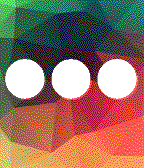
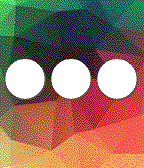
151215

diff --git a/src/themes.c b/src/themes.c
@@ -38,7 +38,6 @@ enum key {
   HOURLYVIBE_KEY = 0x2,
   TEMP_KEY = 0x3,
   CONDITION_KEY = 0x4,
-//  PRESSURE_KEY = 0x5,
   BACKGROUND_KEY = 0x5
 };
 
@@ -60,8 +59,8 @@ static BitmapLayer *battery_layer;
 Window *window;
 static Layer *window_layer;
 
-static GBitmap *background_image;
-static BitmapLayer *background_layer = NULL;
+GBitmap *background_image = NULL;
+static BitmapLayer *background_layer;
 
 BitmapLayer *icon_layer;
 GBitmap *icon_bitmap = NULL;
@@ -82,7 +81,7 @@ int cur_day = -1;
 
 int charge_percent = 0;
 
-static int s_random = 20;
+static int s_random = 6;
 static int temp_random;
 
 
@@ -127,7 +126,7 @@ void theme_choice() {
 		bitmap_layer_set_bitmap(background_layer, background_image);
 		layer_set_hidden(bitmap_layer_get_layer(background_layer), false);
 		layer_mark_dirty(bitmap_layer_get_layer(background_layer));
-    }
+	   }
 }
 
 	    break;
@@ -215,14 +214,14 @@ void theme_choice() {
 	    break;
 		
 		case 3:  // shapes
-		if(s_random == 5){
+		if(s_random == 6){
 			s_random = 0;
 		} else {
 
-			temp_random = rand() % 5;
+			temp_random = rand() % 6;
 
 			while(temp_random == s_random){
-			    temp_random = rand() % 5;
+			    temp_random = rand() % 6;
 		    }
 
 		    s_random = temp_random;
@@ -242,6 +241,8 @@ void theme_choice() {
  				background_image = gbitmap_create_with_resource(RESOURCE_ID_IMAGE_BG23);
          } else if(s_random == 4){
  				background_image = gbitmap_create_with_resource(RESOURCE_ID_IMAGE_BG32);
+         }else if(s_random == 5){
+ 				background_image = gbitmap_create_with_resource(RESOURCE_ID_IMAGE_BG33);
          }
 			
 	   if (background_image != NULL) {
@@ -256,7 +257,11 @@ void theme_choice() {
 	
 void change_battery_icon(bool charging) {
 
-  if(charging) {
+if (battery_image) {
+    gbitmap_destroy(battery_image);
+    battery_image = NULL;
+  }
+	if(charging) {
     battery_image = gbitmap_create_with_resource(RESOURCE_ID_IMAGE_BATTERY_CHARGE);
   }  else {
     battery_image = gbitmap_create_with_resource(RESOURCE_ID_IMAGE_BATT);
@@ -266,15 +271,15 @@ void change_battery_icon(bool charging) {
 }
 
 static void sync_tuple_changed_callback(const uint32_t key, const Tuple* new_tuple, const Tuple* old_tuple, void* context) {
-  switch (key) {
+	if(new_tuple==NULL || new_tuple->value==NULL) {
+		return;
+	}
+	
+	switch (key) {
 	  
 	case CONDITION_KEY:
       text_layer_set_text(condition_layer, new_tuple->value->cstring);
     break;
-
-	//case PRESSURE_KEY:
-    //  text_layer_set_text(layer_sunset_text, new_tuple->value->cstring);
-    //break;
 	  
 	case TEMP_KEY:
       text_layer_set_text(temp_layer, new_tuple->value->cstring);
@@ -284,26 +289,25 @@ static void sync_tuple_changed_callback(const uint32_t key, const Tuple* new_tup
       if (icon_bitmap) {
         gbitmap_destroy(icon_bitmap);
       }
-      icon_bitmap = gbitmap_create_with_resource(
-          WEATHER_ICONS[new_tuple->value->uint8]);
+      icon_bitmap = gbitmap_create_with_resource(WEATHER_ICONS[new_tuple->value->uint8]);
       bitmap_layer_set_bitmap(icon_layer, icon_bitmap);
-      break;
+    break;
 	  
     case BLUETOOTHVIBE_KEY:
       bluetoothvibe = new_tuple->value->uint8 != 0;
 	  persist_write_bool(BLUETOOTHVIBE_KEY, bluetoothvibe);
-      break;      
+    break;      
 	  
     case HOURLYVIBE_KEY:
       hourlyvibe = new_tuple->value->uint8 != 0;
 	  persist_write_bool(HOURLYVIBE_KEY, hourlyvibe);	  
-      break;	  
+    break;	  
 	
 	case BACKGROUND_KEY:
       background = new_tuple->value->uint8;
 	  persist_write_bool(BACKGROUND_KEY, background);	  
-	  theme_choice();
-	  break; 
+	  theme_choice(); 
+	break; 
 	  
   }
 }
@@ -430,18 +434,16 @@ void hourvibe (struct tm *tick_time) {
 void handle_minute_tick(struct tm *tick_time, TimeUnits units_changed) {
     update_time(tick_time);
 	
-if (units_changed & HOUR_UNIT) {
-	
+if (units_changed & HOUR_UNIT) {	
 	theme_choice();
     hourvibe(tick_time);
-	
   }
 
-if (units_changed & MINUTE_UNIT) {
-//	theme_choice();
+// added this for testing
 	
-  }
-	
+//if (units_changed & MINUTE_UNIT) {
+//	theme_choice(); 
+ // }
 }
 
 static void window_load(Window *window) {
@@ -561,8 +563,10 @@ static void window_unload(Window *window) {
 
   layer_remove_from_parent(bitmap_layer_get_layer(background_layer));
   bitmap_layer_destroy(background_layer);
-  gbitmap_destroy(background_image);
-  background_image = NULL;
+
+	if (background_image != NULL) {
+		gbitmap_destroy(background_image);
+    }
 	
   layer_remove_from_parent(bitmap_layer_get_layer(icon_layer));
   bitmap_layer_destroy(icon_layer);
@@ -606,30 +610,25 @@ void main_window_push() {
 static void init() {
   main_window_push();
 
-  tick_timer_service_subscribe(MINUTE_UNIT, handle_minute_tick);
-  battery_state_service_subscribe(&update_battery_state);
-  bluetooth_connection_service_subscribe(&toggle_bluetooth);
-	
-	const int inbound_size = 128;
-    const int outbound_size = 128;
-    app_message_open(inbound_size, outbound_size);  
-	
-	Tuplet initial_values[] = {
+   Tuplet initial_values[] = {
 	TupletCString(CONDITION_KEY, ""),
-//	TupletCString(PRESSURE_KEY, ""),
 	TupletCString(TEMP_KEY, ""),
     TupletInteger(ICON_KEY, (uint8_t) 14),
     TupletInteger(BLUETOOTHVIBE_KEY, persist_read_bool(BLUETOOTHVIBE_KEY)),
     TupletInteger(HOURLYVIBE_KEY, persist_read_bool(HOURLYVIBE_KEY)),
-    TupletInteger(BACKGROUND_KEY, persist_read_bool(BACKGROUND_KEY)),
-		
+    TupletInteger(BACKGROUND_KEY, persist_read_bool(BACKGROUND_KEY)),	
   };
   
-    app_sync_init(&sync, sync_buffer, sizeof(sync_buffer), initial_values, ARRAY_LENGTH(initial_values),
+	app_message_open(128, 128);
+
+	app_sync_init(&sync, sync_buffer, sizeof(sync_buffer), initial_values, ARRAY_LENGTH(initial_values),
       sync_tuple_changed_callback, NULL, NULL);
    
+  tick_timer_service_subscribe(MINUTE_UNIT, handle_minute_tick);
+  battery_state_service_subscribe(&update_battery_state);
+  bluetooth_connection_service_subscribe(&toggle_bluetooth);
+	
 }
-
 
 void handle_deinit(void) {
 	
